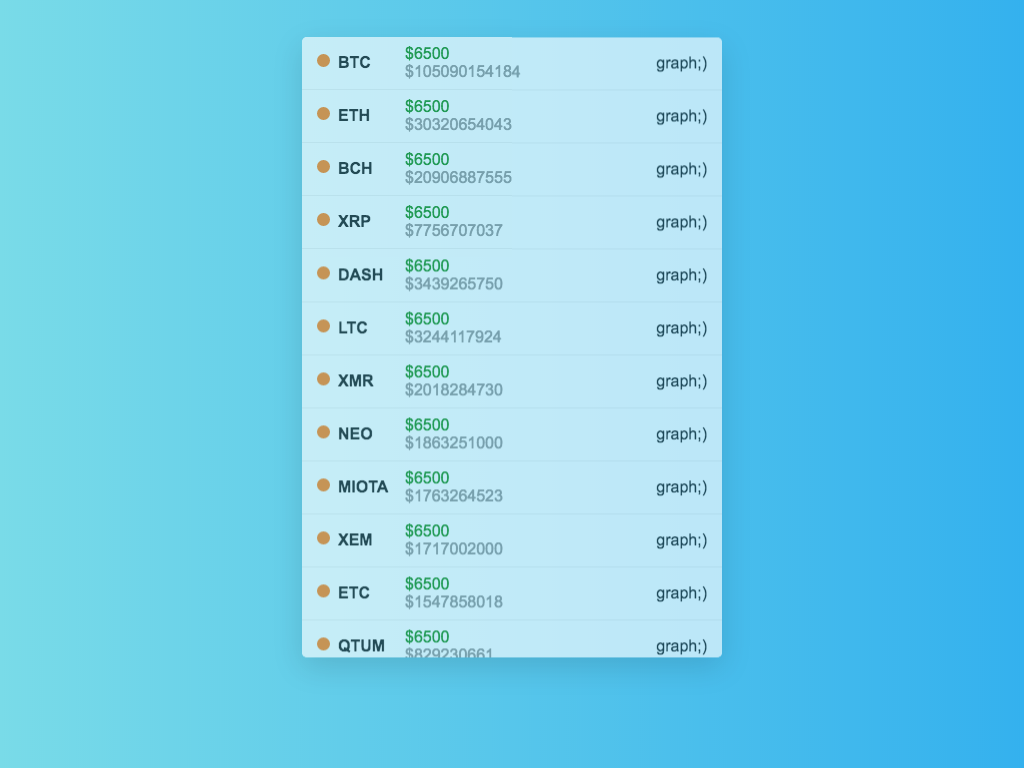
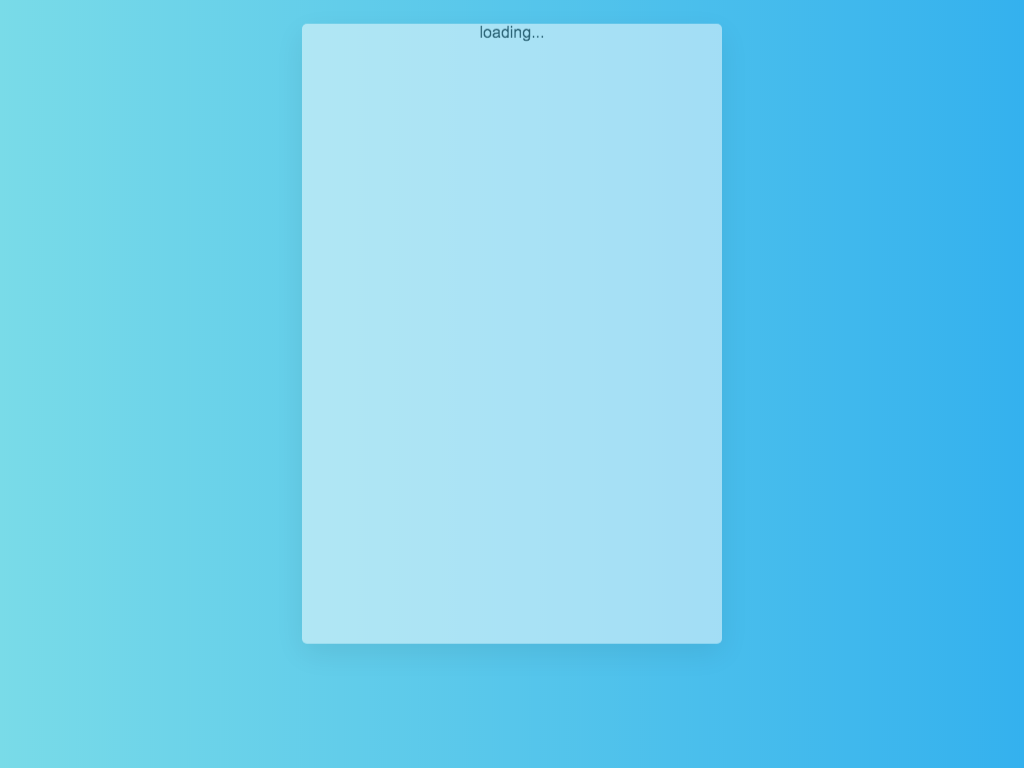
retrive data from api

diff --git a/src/App.js b/src/App.js
@@ -1,24 +1,75 @@
 import React from 'react'
 import { connect } from 'react-redux'
-import IntentForm from './IntentForm'
+import {
+  pure,
+  compose,
+  lifecycle
+} from 'recompose'
 import AssetList from './AssetList'
 import './App.css'
 
-export const App = ({markets}) => (
+export const App = ({markets, loading, hasError, loadingPrices, prices}) => (
   <div className='wrapper'>
     <div className='app'>
-      <AssetList markets={markets} />
-      <IntentForm />
+      {loading
+        ? <div>
+            loading...
+          </div>
+        : <AssetList
+          markets={markets}
+          prices={prices} />
+      }
     </div>
   </div>
 )
 
 const mapStateToProps = state => {
   return {
-    markets: state.markets
+    markets: state.markets.items,
+    loading: state.markets.isLoading,
+    hasError: state.markets.error,
+    loadingPrices: state.prices.isLoading,
+    prices: state.prices.items
   }
 }
 
-export default connect(
-  mapStateToProps
-)(App)
+const mapDispatchToProps = dispatch => {
+  return {
+    retrievePrices: () => {
+      dispatch({
+        types: ['LOADING_PRICES', 'SUCCESS_PRICES', 'FAILED_PRICES'],
+        payload: {
+          request: {
+            url: '/prices'
+          }
+        }
+      })
+    },
+    retrieveMarkets: () => {
+      dispatch({
+        types: ['LOADING_MARKETS', 'SUCCESS_MARKETS', 'FAILED_MARKETS'],
+        payload: {
+          request: {
+            url: '/markets'
+          }
+        }
+      })
+    }
+  }
+}
+
+const enhance = compose(
+  pure,
+  connect(
+    mapStateToProps,
+    mapDispatchToProps
+  ),
+  lifecycle({
+    componentDidMount () {
+      this.props.retrievePrices()
+      this.props.retrieveMarkets()
+    }
+  })
+)
+
+export default enhance(App)

diff --git a/src/rootReducers.js b/src/rootReducers.js
@@ -1,7 +1,30 @@
 import { combineReducers } from 'redux'
 
-export const markets = (state = {}, action) => {
+export const markets = (state = {isLoading: true, error: false, items: []}, action) => {
   switch (action.type) {
+    case 'SUCCESS_MARKETS':
+      console.log(state)
+      return {
+        ...state,
+        isLoading: false,
+        error: false,
+        items: action.payload.data.data
+      }
+    default:
+      return state
+  }
+}
+
+export const prices = (state = {isLoading: true, error: false, items: []}, action) => {
+  switch (action.type) {
+    case 'SUCCESS_PRICES':
+      console.log(state)
+      return {
+        ...state,
+        isLoading: false,
+        error: false,
+        items: action.payload.data.data
+      }
     default:
       return state
   }
@@ -21,5 +44,6 @@ export const intentForm = (state = {amountMoney: 0}, action) => {
 
 export default combineReducers({
   markets,
+  prices,
   intentForm
 })

diff --git a/src/index.js b/src/index.js
@@ -3,16 +3,21 @@ import ReactDOM from 'react-dom'
 import { Provider } from 'react-redux'
 import { createStore, applyMiddleware } from 'redux'
 import { composeWithDevTools } from 'redux-devtools-extension'
+import axios from 'axios'
+import axiosMiddleware from 'redux-axios-middleware'
 import './index.css'
 import App from './App'
 import reducers from './rootReducers.js'
 import registerServiceWorker from './registerServiceWorker'
-import preloadedState from './marketsStub'
 
-const middleware = []
+const client = axios.create({
+  baseURL: 'https://api.lionshare.capital/api',
+  responseType: 'json'
+})
+
+const middleware = [axiosMiddleware(client)]
 
 const store = createStore(reducers,
-  preloadedState,
   composeWithDevTools(applyMiddleware(...middleware))
 )
 

diff --git a/src/AssetItem.js b/src/AssetItem.js
@@ -11,9 +11,6 @@ const AssetAvatar = ({symbol}) => {
   )
 }
 
-// FIXME:
-const PRICE = 6500
-
 const AssetItem = ({asset}) => {
   return (
     <div className='assets-item'>
@@ -22,7 +19,9 @@ const AssetItem = ({asset}) => {
         <strong>{asset.title}</strong>
       </div>
       <div className='assets-item-details'>
-        <div className='assets-item-details-price'>{formatNumber(PRICE, 'USD')}</div>
+        {asset.price
+          ? <div className='assets-item-details-price'>{formatNumber(asset.price, 'USD')}</div>
+          : <div className='assets-item-details-price'>---</div>}
         <div className='assets-item-details-cap'>{formatNumber(asset.cap, 'USD')}</div>
       </div>
       <div className='assets-item-graph'>

diff --git a/src/AssetList.js b/src/AssetList.js
@@ -1,7 +1,7 @@
 import React from 'react'
 import AssetItem from './AssetItem'
 
-const AssetList = ({markets}) => (
+const AssetList = ({markets, prices}) => (
   <div className='assets-list'>
     {Object.keys(markets)
       .filter((key, index) => index < 20)
@@ -11,6 +11,8 @@ const AssetList = ({markets}) => (
           asset={{
             title,
             index,
+            history: prices && prices[title] ? prices[title] : null,
+            price: prices && prices[title] ? prices[title][0] : null,
             cap: markets[title]
           }} />
     ))}
